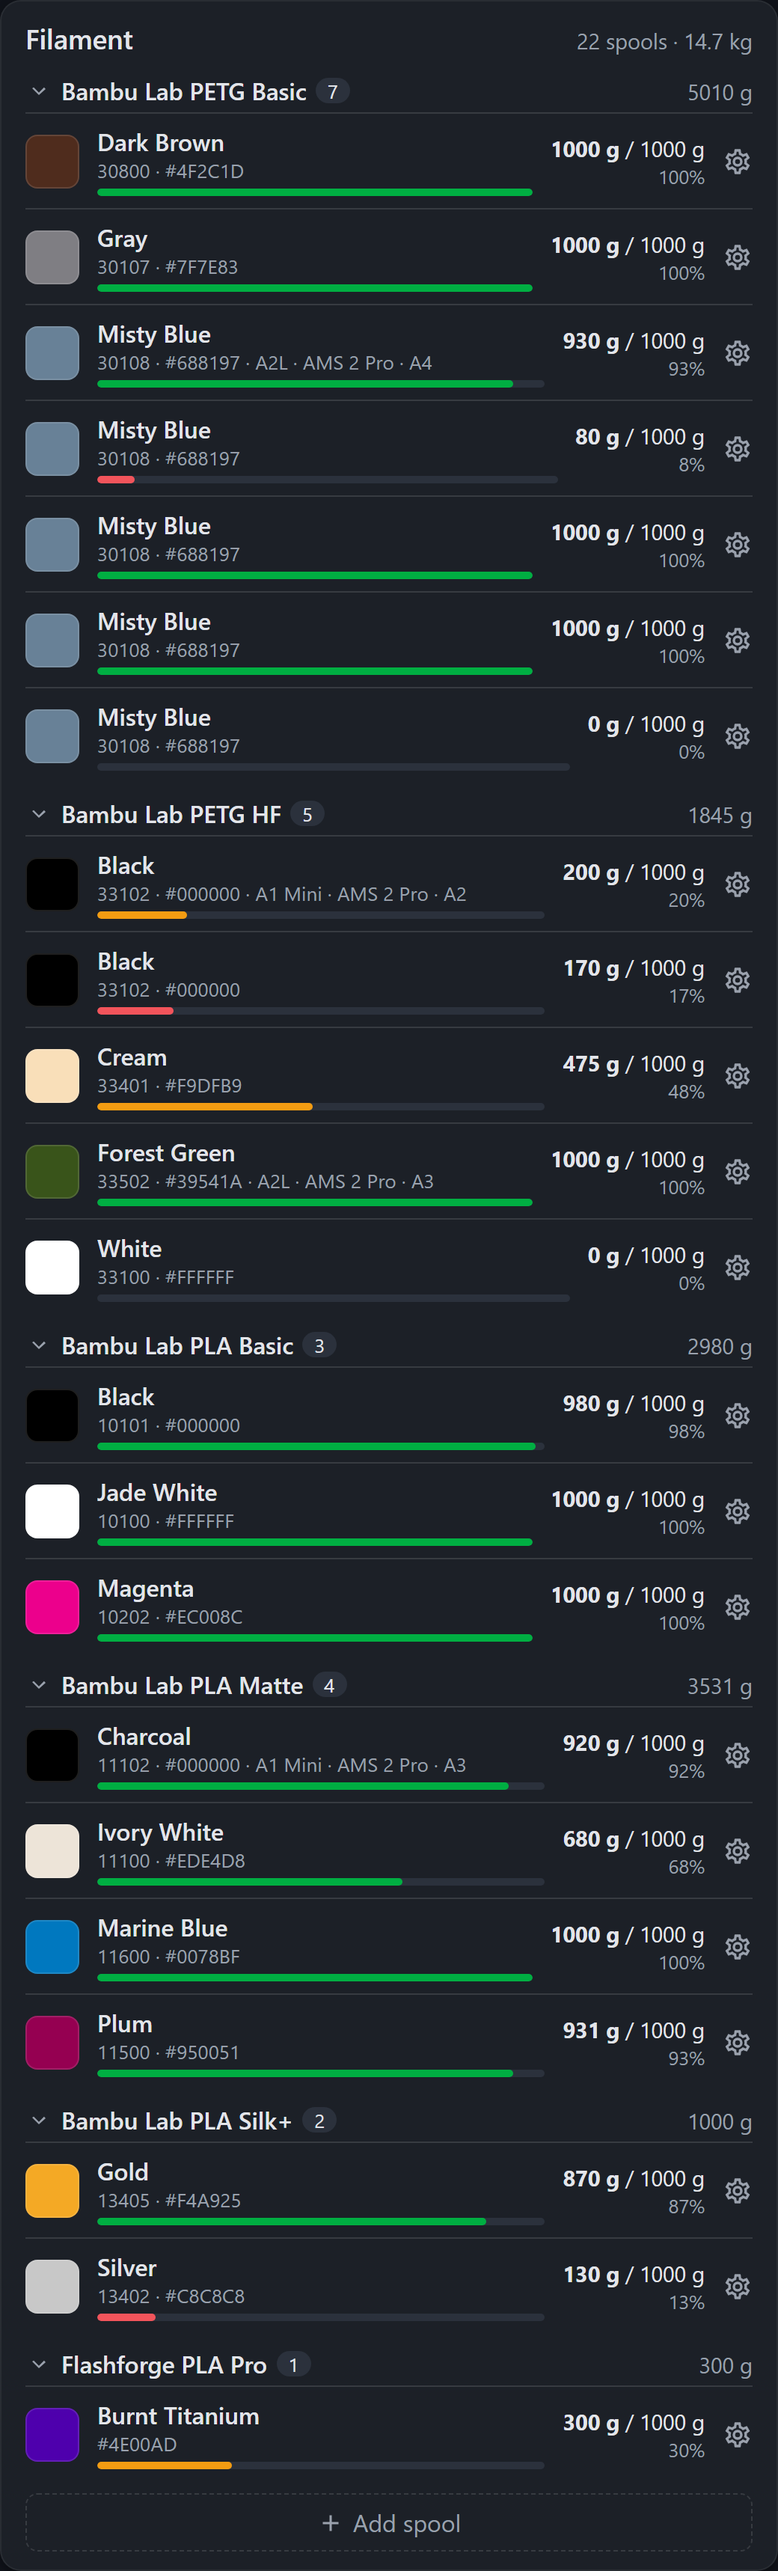
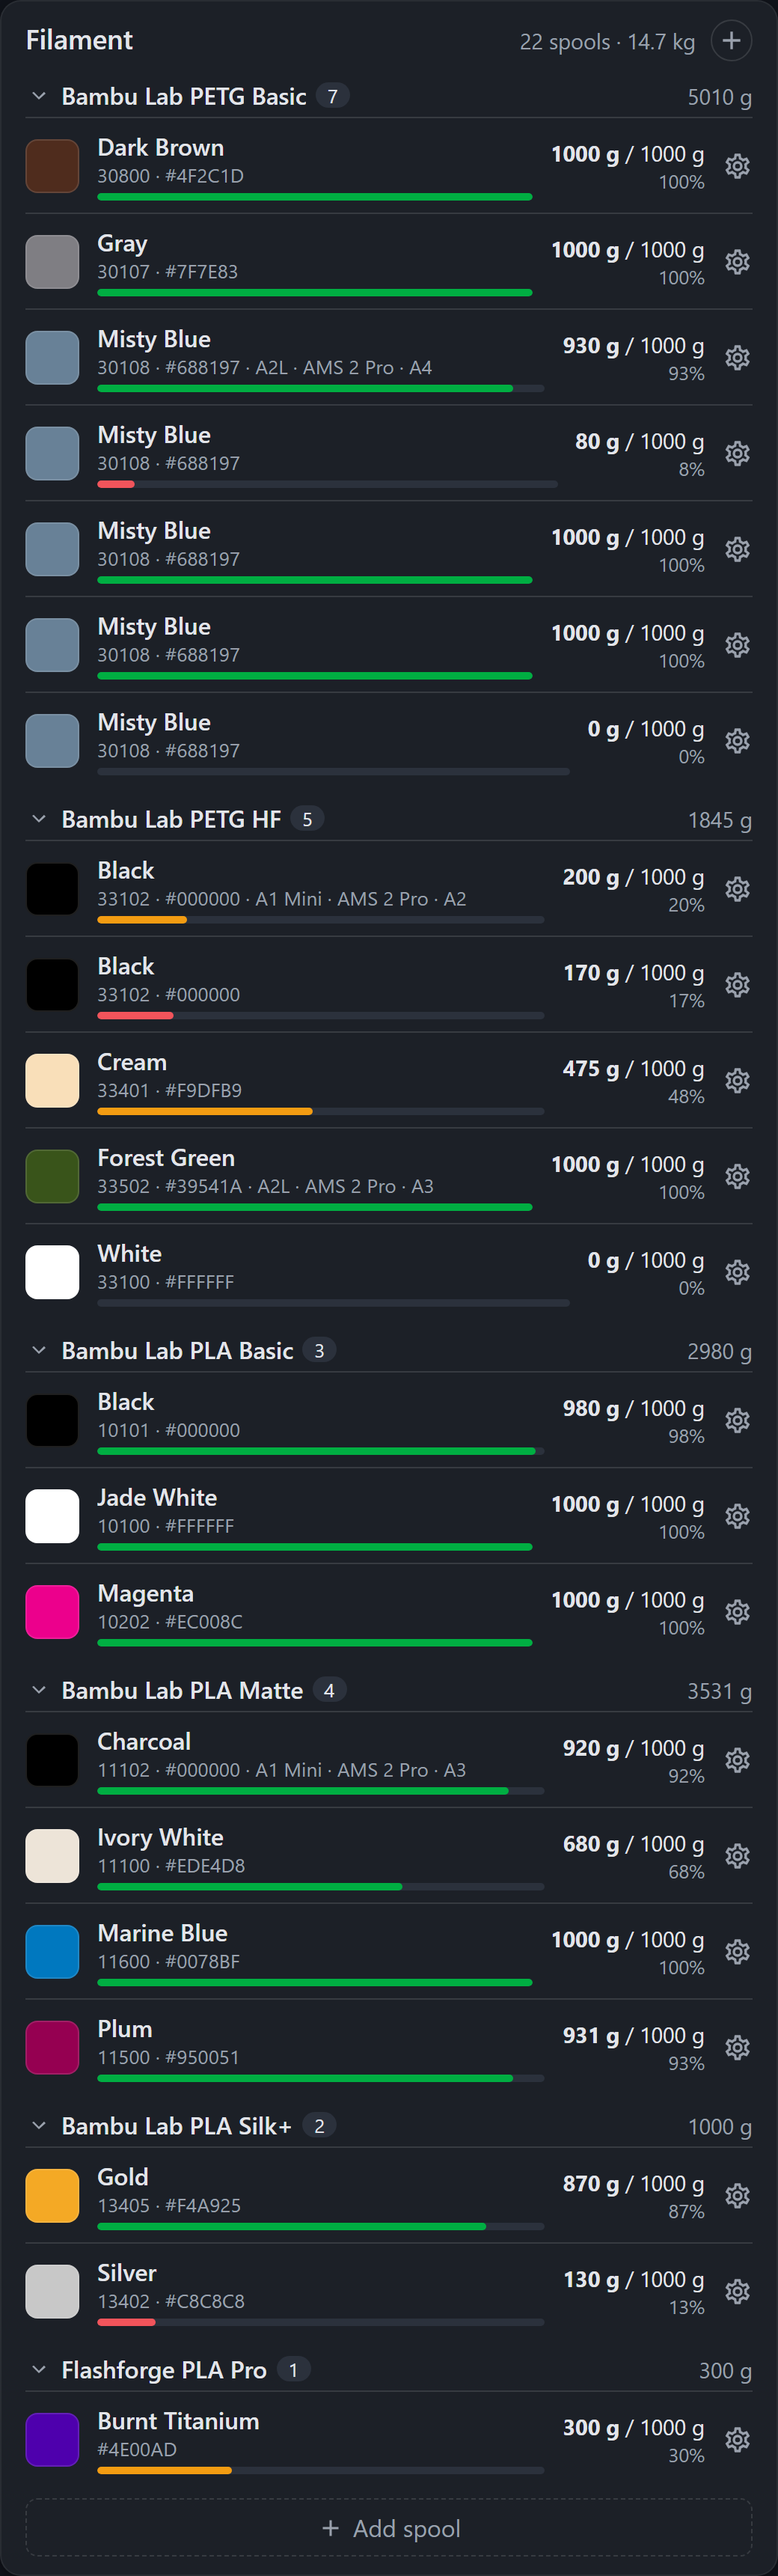
Card: header add button, finer filters, sort by color code (2.2.0)
- With a title and show_add, the header carries a + that opens the add
  dialog, so long lists need no scrolling to the bottom.
- New list filters vendors and products next to materials, each with a
  <key>_mode of include or exclude (all brands except Bambu Lab, only the
  decorative lines, no support filaments).
- spool_type rfid/manual and min_remaining_pct (sealed stock).
- Per-spool filters run before combining, so stacks shrink to the
  matching spools.
- sort: color_code orders by the Bambu color code (palette order); spools
  without a code follow by name.

diff --git a/custom_components/bambu_filaments/www/bambu-filaments-card.js b/custom_components/bambu_filaments/www/bambu-filaments-card.js
@@ -6,7 +6,7 @@
 // Must match "version" in manifest.json (enforced by CI). The backend sends
 // its version in the spools sensor attributes; a mismatch means this browser
 // tab still runs a cached copy of the card from before an update.
-const CARD_VERSION = "2.1.0";
+const CARD_VERSION = "2.2.0";
 
 // HA's frontend service worker matches its cache entries without the query
 // string, so the ?v=<version> bump on the Lovelace resource does not defeat it
@@ -80,11 +80,19 @@ const STR = {
     e_title: "Title",
     e_group: "Group by", g_line: "Filament line (brand + product)", g_product: "Product line (all brands)", g_material: "Material", g_none: "No grouping",
     e_sort: "Sort by", s_name: "Name", s_rem_asc: "Remaining (low first)", s_rem_desc: "Remaining (high first)",
+    s_code: "Bambu color code (palette order)",
     e_combine: "Combine identical spools (sum remaining)",
     e_filters: "Filters",
     e_max_g: "Only show below (g, empty = off)",
     e_max_pct: "Only show below (%, empty = off)",
-    e_materials: "Materials (none checked = all)",
+    e_min_pct: "Only show from (%, empty = off)",
+    e_materials: "Materials",
+    e_vendors: "Brands",
+    e_products: "Product lines",
+    m_include: "Only checked (none = all)",
+    m_exclude: "All except checked",
+    e_type: "Spool type",
+    ty_all: "All", ty_rfid: "RFID only", ty_manual: "Manual only (e.g. sealed stock)",
     e_only_printer: "Only spools loaded in a printer/AMS",
     e_max_items: "Max. rows (empty = all)",
     e_show_empty: "Show empty spools",
@@ -162,11 +170,19 @@ const STR = {
     e_title: "Titel",
     e_group: "Gruppieren nach", g_line: "Filamentlinie (Hersteller + Sorte)", g_product: "Sorte (alle Hersteller)", g_material: "Material", g_none: "Keine Gruppierung",
     e_sort: "Sortieren nach", s_name: "Name", s_rem_asc: "Restmenge (wenig zuerst)", s_rem_desc: "Restmenge (viel zuerst)",
+    s_code: "Bambu-Farbcode (Farbpalette)",
     e_combine: "Gleiche Filamente zusammenfassen (Rest addieren)",
     e_filters: "Filter",
     e_max_g: "Nur anzeigen unter (g, leer = aus)",
     e_max_pct: "Nur anzeigen unter (%, leer = aus)",
-    e_materials: "Materialien (nichts angehakt = alle)",
+    e_min_pct: "Nur anzeigen ab (%, leer = aus)",
+    e_materials: "Materialien",
+    e_vendors: "Hersteller",
+    e_products: "Sorten",
+    m_include: "Nur angehakte (nichts = alle)",
+    m_exclude: "Alle außer angehakte",
+    e_type: "Spulentyp",
+    ty_all: "Alle", ty_rfid: "Nur RFID", ty_manual: "Nur manuelle (z. B. Lagerware)",
     e_only_printer: "Nur eingelegte Spulen (Drucker/AMS)",
     e_max_items: "Max. Zeilen (leer = alle)",
     e_show_empty: "Leere Spulen anzeigen",
@@ -248,6 +264,23 @@ function normHex(v) {
   v = String(v).trim().toUpperCase();
   if (!HEX_RE.test(v)) return "";
   return v.startsWith("#") ? v : `#${v}`;
+}
+
+// The three list filters of the card (config key -> spool value). Each has a
+// "<key>_mode": "include" (default, only listed values) or "exclude" (all but
+// the listed values); an empty list never filters.
+const LIST_FILTERS = {
+  materials: (s) => s.material || "",
+  vendors: (s) => s.vendor || "",
+  products: (s) => s.name || s.material || "",
+};
+
+function listFilter(config, key) {
+  const list = config[key];
+  if (!Array.isArray(list) || !list.length) return null;
+  const exclude = config[`${key}_mode`] === "exclude";
+  const get = LIST_FILTERS[key];
+  return (s) => list.includes(get(s)) !== exclude;
 }
 
 function fmtG(g) {
@@ -402,10 +435,18 @@ class BambuFilamentsCard extends HTMLElement {
     // Empty spools are dropped before combining so a stack shrinks to its
     // non-empty members (×5 instead of ×7) — matching what the Bambu apps show.
     if (!c.show_empty) spools = spools.filter((s) => (s.remaining_g ?? 0) > 0);
+    // Per-spool filters also run before combining: a stack mixing RFID and
+    // manual spools shrinks to the members the card asks for.
+    for (const key of Object.keys(LIST_FILTERS)) {
+      const keep = listFilter(c, key);
+      if (keep) spools = spools.filter(keep);
+    }
+    if (c.spool_type === "rfid") spools = spools.filter((s) => s.create_type === "ams");
+    else if (c.spool_type === "manual") spools = spools.filter((s) => s.create_type === "manual");
     if (c.combine) spools = this._combine(spools);
     if (c.only_in_printer) spools = spools.filter((s) => s.in_printer);
-    if (Array.isArray(c.materials) && c.materials.length) {
-      spools = spools.filter((s) => c.materials.includes(s.material));
+    if (c.min_remaining_pct != null) {
+      spools = spools.filter((s) => (s.total_g ? (s.remaining_g ?? 0) / s.total_g * 100 : 0) >= Number(c.min_remaining_pct));
     }
     if (c.max_remaining_g != null) spools = spools.filter((s) => (s.remaining_g ?? 0) <= Number(c.max_remaining_g));
     if (c.max_remaining_pct != null) {
@@ -415,6 +456,18 @@ class BambuFilamentsCard extends HTMLElement {
     const rem = (s) => (s.total_g ? (s.remaining_g ?? 0) / s.total_g : 0);
     if (c.sort === "remaining_asc") spools.sort((a, b) => rem(a) - rem(b) || name(a).localeCompare(name(b)));
     else if (c.sort === "remaining_desc") spools.sort((a, b) => rem(b) - rem(a) || name(a).localeCompare(name(b)));
+    else if (c.sort === "color_code") {
+      // Bambu's 5-digit codes run along the color palette within a product
+      // line; spools without one (third-party brands) follow, by name.
+      const code = (s) => {
+        const n = Number(s.bambu_color_code);
+        return s.bambu_color_code && Number.isFinite(n) ? n : Infinity;
+      };
+      spools.sort((a, b) => {
+        const ca = code(a), cb = code(b);
+        return (ca === cb ? 0 : ca < cb ? -1 : 1) || name(a).localeCompare(name(b));
+      });
+    }
     else spools.sort((a, b) => name(a).localeCompare(name(b)));
     if (c.max_items) spools = spools.slice(0, Number(c.max_items));
     return spools;
@@ -500,14 +553,17 @@ class BambuFilamentsCard extends HTMLElement {
         ${title ? `<div class="head">
           <div class="title">${esc(title)}</div>
           <div class="sum">${t.spools(spools.length)} · ${fmtG(totalG)}</div>
+          ${c.show_add ? `<ha-icon class="headadd" icon="mdi:plus" title="${esc(t.add_btn)}" role="button" tabindex="0"></ha-icon>` : ""}
         </div>` : ""}
         <div class="list" ${scroll}>${body}</div>
         ${c.show_add ? `<div class="addrow"><ha-icon icon="mdi:plus"></ha-icon><span>${t.add_btn}</span></div>` : ""}
       </ha-card>${this._css()}`;
 
-    this.shadowRoot.querySelector(".addrow")?.addEventListener("click", () => {
-      this._openDialog(t, null);
-    });
+    // Add button twice: below the list and (with a title) in the header, so
+    // a long list does not have to be scrolled to its end.
+    this.shadowRoot.querySelectorAll(".addrow, .headadd").forEach((el) =>
+      el.addEventListener("click", () => this._openDialog(t, null))
+    );
     this.shadowRoot.querySelector(".stale-btn")?.addEventListener("click", () => reloadCard());
 
     this.shadowRoot.querySelectorAll(".ghead").forEach((el) =>
@@ -1332,8 +1388,12 @@ class BambuFilamentsCard extends HTMLElement {
   _css() {
     return `<style>
       ha-card { padding: 12px 16px 8px; }
-      .head { display:flex; align-items:baseline; justify-content:space-between; margin-bottom:4px; }
-      .title { font-size:1.15em; font-weight:600; }
+      .head { display:flex; align-items:baseline; gap:10px; margin-bottom:4px; }
+      .title { font-size:1.15em; font-weight:600; margin-right:auto; }
+      .headadd { --mdc-icon-size:20px; align-self:center; flex:none; cursor:pointer; padding:3px;
+                 border-radius:50%; color:var(--secondary-text-color);
+                 border:1px solid var(--divider-color); }
+      .headadd:hover { color:var(--primary-text-color); border-color:var(--secondary-text-color); }
       .sum { color: var(--secondary-text-color); font-size:0.9em; }
       .msg { padding:16px 4px; color: var(--secondary-text-color); }
       .stale { display:flex; align-items:center; justify-content:space-between; gap:8px; flex-wrap:wrap;
@@ -1423,11 +1483,26 @@ class BambuFilamentsCardEditor extends HTMLElement {
       <label class="chk"><input type="checkbox" data-f="${f}" ${c[f] ? "checked" : ""}/> ${label}</label>`;
     const stEntity = c.entity || (this._hass ? findSpoolsEntity(this._hass) : null);
     const st = stEntity ? this._hass?.states?.[stEntity] : null;
-    const materials = [...new Set(((st?.attributes?.spools) || [])
-      .map((s) => s.material).filter(Boolean))].sort();
-    const selectedMats = c.materials || [];
-    const matBoxes = materials.map((m) => `
-      <label class="chk"><input type="checkbox" data-mat="${esc(m)}" ${selectedMats.includes(m) ? "checked" : ""}/> ${esc(m)}</label>`).join("");
+    // One checkbox list per list filter, fed by the live inventory. Values
+    // already selected stay listed even when no spool carries them any more,
+    // so they can still be unchecked.
+    const listSection = (key, label) => {
+      const selected = Array.isArray(c[key]) ? c[key] : [];
+      const values = [...new Set([
+        ...((st?.attributes?.spools) || []).map(LIST_FILTERS[key]),
+        ...selected,
+      ].filter(Boolean))].sort((a, b) => a.localeCompare(b));
+      if (!values.length) return "";
+      const exclude = c[`${key}_mode`] === "exclude";
+      return `
+        <div class="lhead"><span>${label}</span>
+          <select data-mode="${key}">
+            <option value="include" ${exclude ? "" : "selected"}>${t.m_include}</option>
+            <option value="exclude" ${exclude ? "selected" : ""}>${t.m_exclude}</option>
+          </select></div>
+        <div class="mats">${values.map((v) => `
+          <label class="chk"><input type="checkbox" data-list="${key}" data-val="${esc(v)}" ${selected.includes(v) ? "checked" : ""}/> ${esc(v)}</label>`).join("")}</div>`;
+    };
     this.shadowRoot.innerHTML = `
       <style>
         .form { display:flex; flex-direction:column; gap:10px; padding:4px 0; }
@@ -1438,10 +1513,13 @@ class BambuFilamentsCardEditor extends HTMLElement {
         input[type=text], input[type=number], select {
           padding:6px 8px; border:1px solid var(--divider-color); border-radius:6px;
           background: var(--card-background-color); color: var(--primary-text-color); }
-        .cols { display:grid; grid-template-columns:1fr 1fr; gap:10px; }
+        .cols { display:grid; grid-template-columns:minmax(0,1fr) minmax(0,1fr); gap:10px; }
+        .cols select, .cols input { box-sizing:border-box; width:100%; min-width:0; }
         .sect { font-weight:600; margin-top:6px; border-bottom:1px solid var(--divider-color);
                 padding-bottom:2px; color: var(--primary-text-color); }
         .mats { display:flex; flex-wrap:wrap; gap:4px 14px; }
+        .lhead { display:flex; align-items:center; justify-content:space-between; gap:10px;
+                 margin-top:4px; font-size:0.9em; color: var(--secondary-text-color); }
       </style>
       <div class="form">
         <label>${t.e_entity}<input type="text" data-f="entity" value="${esc(c.entity || "")}"/></label>
@@ -1459,6 +1537,7 @@ class BambuFilamentsCardEditor extends HTMLElement {
               <option value="name" ${c.sort === "name" ? "selected" : ""}>${t.s_name}</option>
               <option value="remaining_asc" ${c.sort === "remaining_asc" ? "selected" : ""}>${t.s_rem_asc}</option>
               <option value="remaining_desc" ${c.sort === "remaining_desc" ? "selected" : ""}>${t.s_rem_desc}</option>
+              <option value="color_code" ${c.sort === "color_code" ? "selected" : ""}>${t.s_code}</option>
             </select></label>
         </div>
         ${check("combine", t.e_combine)}
@@ -1468,10 +1547,19 @@ class BambuFilamentsCardEditor extends HTMLElement {
           <label>${t.e_max_pct}<input type="number" min="0" max="100" data-f="max_remaining_pct" value="${c.max_remaining_pct ?? ""}"/></label>
         </div>
         <div class="cols">
+          <label>${t.e_min_pct}<input type="number" min="0" max="100" data-f="min_remaining_pct" value="${c.min_remaining_pct ?? ""}"/></label>
           <label>${t.e_max_items}<input type="number" min="1" data-f="max_items" value="${c.max_items ?? ""}"/></label>
         </div>
+        <label>${t.e_type}
+          <select data-f="spool_type">
+            <option value="" ${!c.spool_type ? "selected" : ""}>${t.ty_all}</option>
+            <option value="rfid" ${c.spool_type === "rfid" ? "selected" : ""}>${t.ty_rfid}</option>
+            <option value="manual" ${c.spool_type === "manual" ? "selected" : ""}>${t.ty_manual}</option>
+          </select></label>
         ${check("only_in_printer", t.e_only_printer)}
-        ${materials.length ? `<label>${t.e_materials}</label><div class="mats">${matBoxes}</div>` : ""}
+        ${listSection("vendors", t.e_vendors)}
+        ${listSection("materials", t.e_materials)}
+        ${listSection("products", t.e_products)}
         <div class="sect"></div>
         ${check("show_empty", t.e_show_empty)}
         ${check("show_location", t.e_show_location)}
@@ -1488,12 +1576,21 @@ class BambuFilamentsCardEditor extends HTMLElement {
         </div>
         <label>${t.e_max_height}<input type="number" min="100" data-f="max_height" value="${c.max_height || ""}"/></label>
       </div>`;
-    this.shadowRoot.querySelectorAll("[data-mat]").forEach((el) =>
+    this.shadowRoot.querySelectorAll("[data-list]").forEach((el) =>
       el.addEventListener("change", () => {
-        const checked = [...this.shadowRoot.querySelectorAll("[data-mat]")]
-          .filter((x) => x.checked).map((x) => x.dataset.mat);
-        if (checked.length) this._config.materials = checked;
-        else delete this._config.materials;
+        const key = el.dataset.list;
+        const checked = [...this.shadowRoot.querySelectorAll(`[data-list="${key}"]`)]
+          .filter((x) => x.checked).map((x) => x.dataset.val);
+        if (checked.length) this._config[key] = checked;
+        else delete this._config[key];
+        this._fire();
+      })
+    );
+    this.shadowRoot.querySelectorAll("[data-mode]").forEach((el) =>
+      el.addEventListener("change", () => {
+        const key = `${el.dataset.mode}_mode`;
+        if (el.value === "exclude") this._config[key] = "exclude";
+        else delete this._config[key];
         this._fire();
       })
     );

diff --git a/README.md b/README.md
@@ -138,11 +138,16 @@ Everything is configurable in the visual editor.
 | `entity` | auto | The aggregate spools sensor |
 | `title` | "Filament" | Card title ("" hides the header) |
 | `group_by` | `line` | `line` (brand + product), `product` (product across brands), `material`, `none` |
-| `sort` | `name` | `name`, `remaining_asc`, `remaining_desc` |
+| `sort` | `name` | `name`, `remaining_asc`, `remaining_desc`, `color_code` (Bambu color code = palette order; spools without a code follow by name) |
 | `combine` | `false` | Merge identical spools into one ×n row with summed remaining; click to expand |
 | `max_remaining_g` | – | Only entries with at most this many grams left |
 | `max_remaining_pct` | – | Only entries at or below this remaining % |
-| `materials` | – | Materials to include, e.g. `[PLA, PETG]` |
+| `min_remaining_pct` | – | Only entries at or above this remaining %, e.g. `100` for full spools |
+| `materials` | – | Materials to filter by, e.g. `[PLA, PETG]` |
+| `vendors` | – | Brands to filter by, e.g. `[Bambu Lab]` |
+| `products` | – | Product lines to filter by, e.g. `[PLA Galaxy, PLA Sparkle]` |
+| `materials_mode`, `vendors_mode`, `products_mode` | `include` | `include` shows only the listed values, `exclude` everything else (e.g. all brands except Bambu Lab, or no support filaments) |
+| `spool_type` | – | `rfid` or `manual` (manual = entered by hand, e.g. sealed stock) |
 | `only_in_printer` | `false` | Only spools loaded in a printer/AMS |
 | `max_items` | – | Cap the number of rows after sorting |
 | `show_empty` | `true` | Include spools with 0 g left (filtered before `combine`) |
@@ -153,7 +158,7 @@ Everything is configurable in the visual editor.
 | `show_edit` | `true` | Cog icon per row (edit, delete) |
 | `show_details` | `true` | Tapping a spool row opens a details dialog with a remaining-weight history chart (stacks still expand; expanded spools open it). With `show_edit` it also offers quick actions: enter the weighed remaining grams, or mark the spool as full |
 | `details_days` | `30` | Days shown in the history chart (daily means from HA's long-term statistics) |
-| `show_add` | `true` | "Add spool" button |
+| `show_add` | `true` | "Add spool" button below the list and a + in the header |
 | `compact` | `false` | Slimmer rows without the meta line |
 | `low_threshold` | `20` | Bar turns red below this % |
 | `warn_threshold` | `50` | Bar turns orange below this % |
